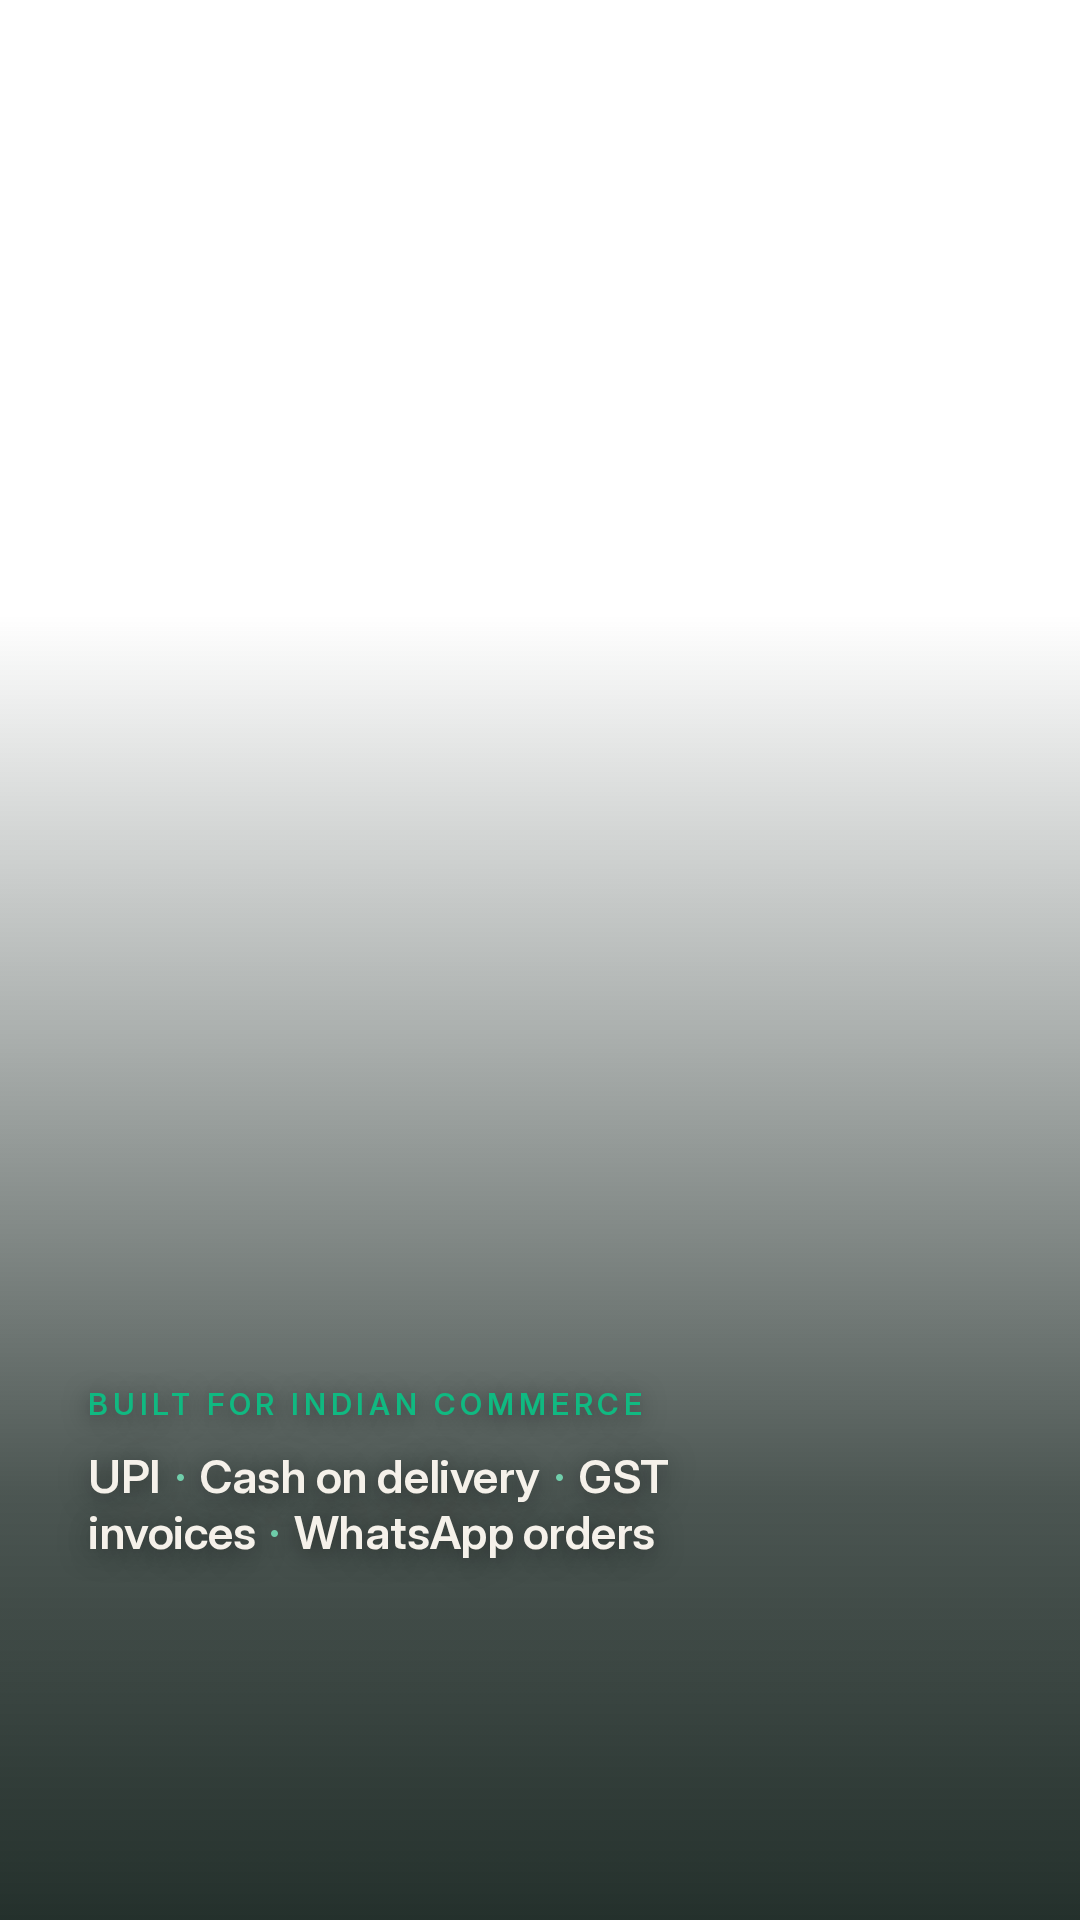
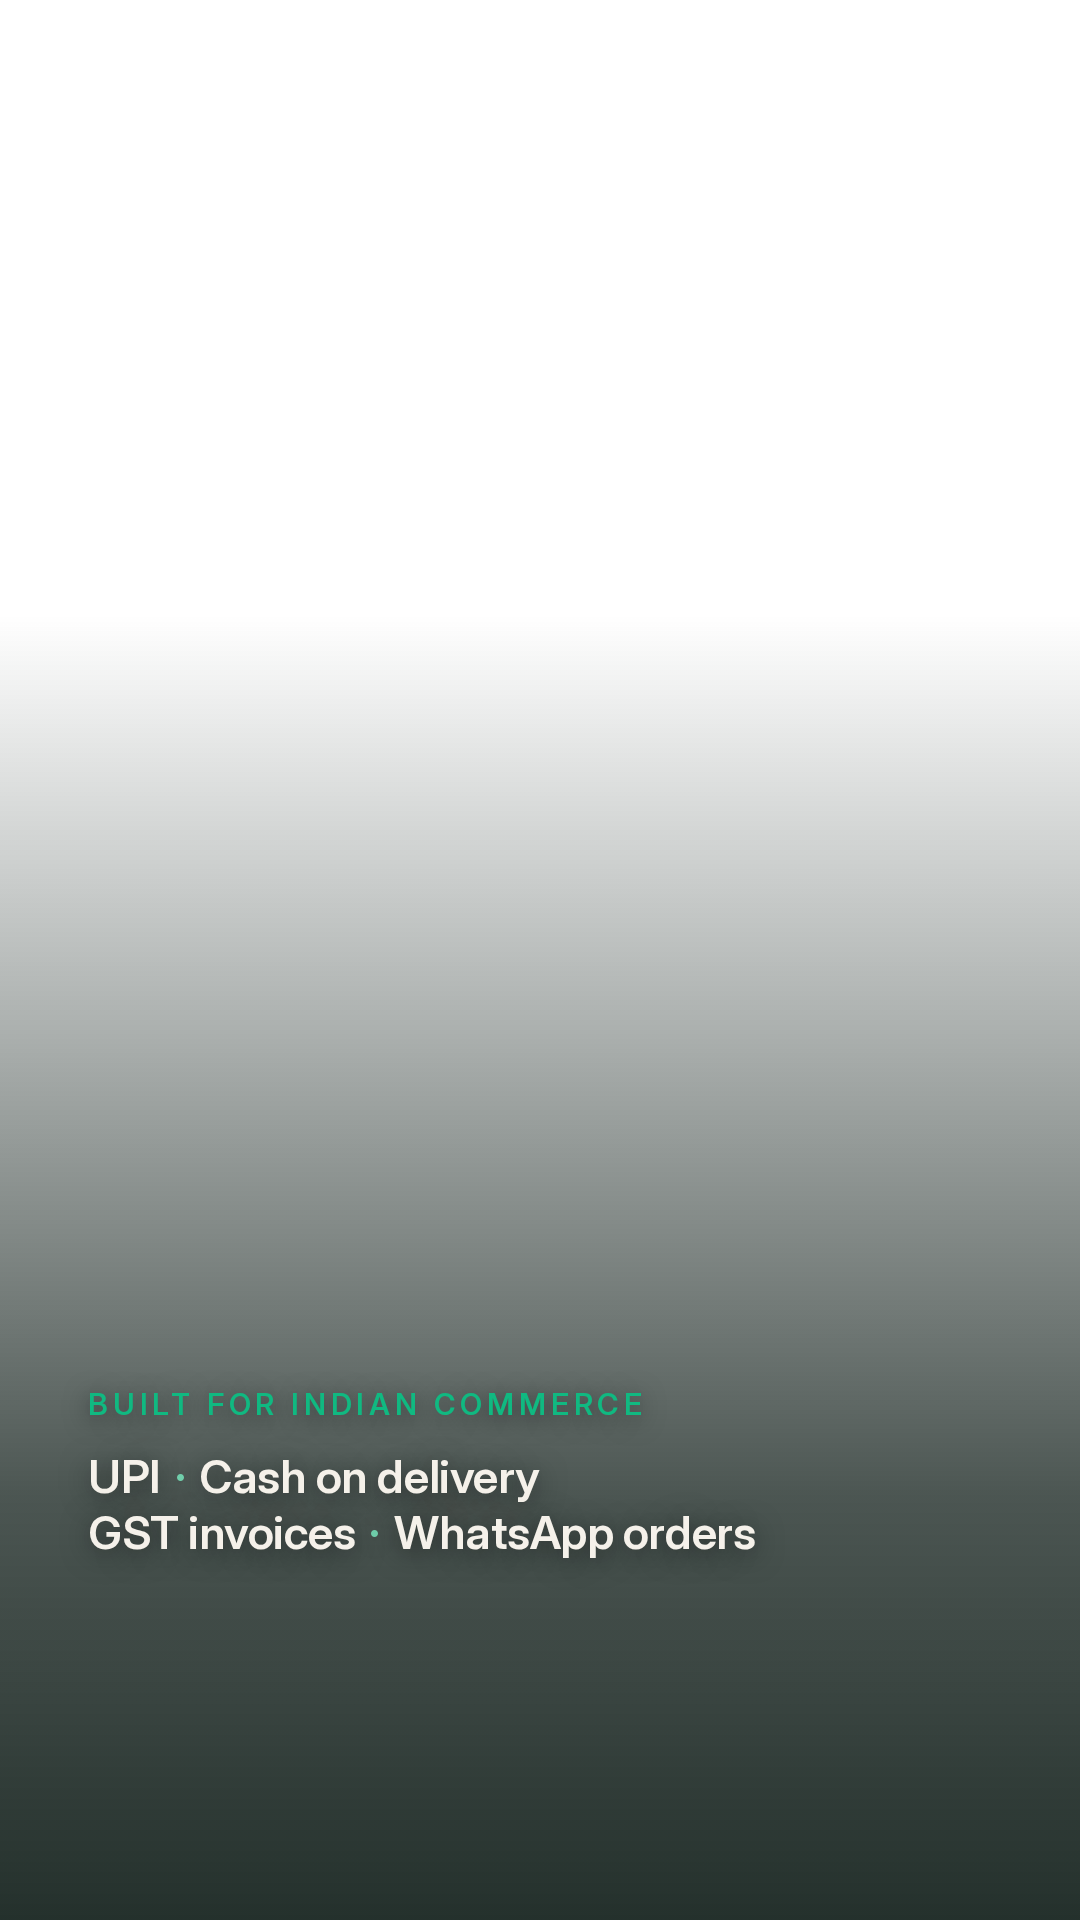
Handle silent clips, add the night layout, fix two rendering flaws
Flow returned V03 with no audio stream at all, which made compose.sh fail
outright on its [0:a] mapping. Silence is now generated when the input carries
none.

Adds a night layout - features and CTA rather than hook and price - with its
fades placed in the gaps between the phone's glow pulses. The pulses were
measured rather than guessed: per-frame mean luminance off signalstats puts
them at 2.4-3.0, 3.8-5.5, 7.3-8.0 and 9.1-9.8, so both overlay transitions
land in quiet windows and nothing competes with the glow.

Two flaws caught by looking at the render. The features overlay was breaking
"GST invoices" across lines, now set as two balanced lines. And with no
explicit rate ffmpeg was writing 25fps over 24fps sources, resampling the
cadence for no reason; output is pinned to 24.

Claude-Session: https://claude.ai/code/session_01Ug5Xv28ezVk3NjQ4wxiTKq

Changed region(s): [[0.0917, 0.75, 0.7028, 0.8125]]

diff --git a/marketing/video/overlay-pack.html b/marketing/video/overlay-pack.html
@@ -97,7 +97,7 @@
 <div class="f v916 scrim" id="ov-features">
   <div class="safe">
     <p class="kick">Built for Indian commerce</p>
-    <p class="feat">UPI<span>·</span>Cash on delivery<span>·</span>GST invoices<span>·</span>WhatsApp orders</p>
+    <p class="feat">UPI<span>·</span>Cash on delivery<br />GST invoices<span>·</span>WhatsApp orders</p>
   </div>
 </div>
 
